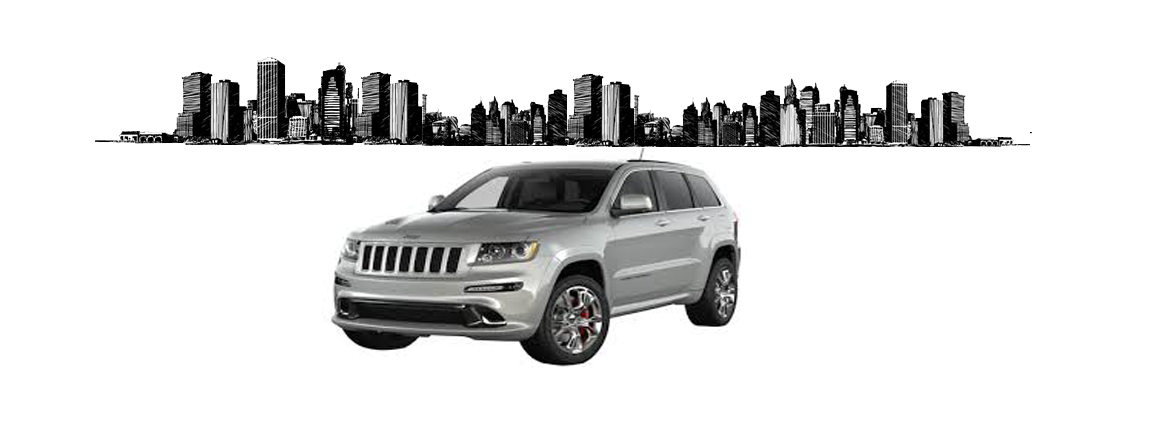
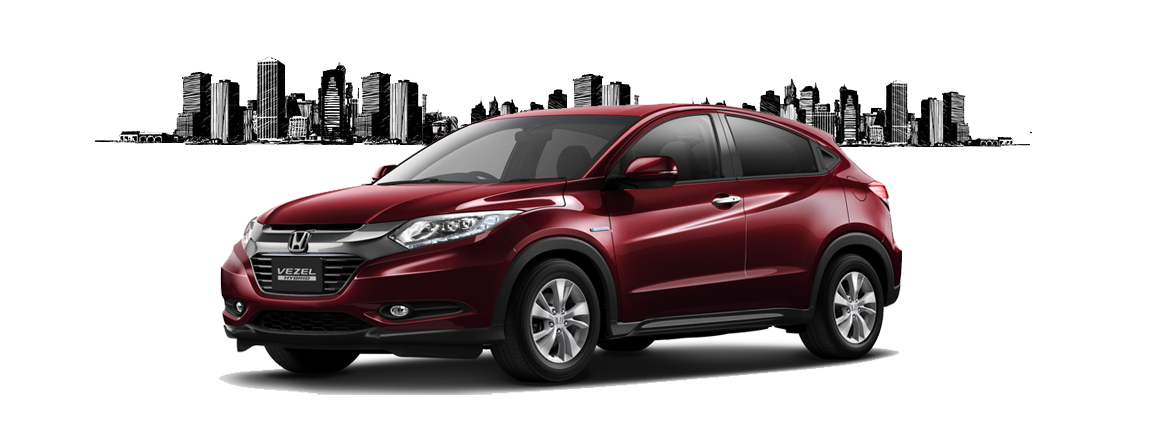
chang 11

Changed region(s): [[0.1846, 0.2419, 0.7692, 0.9372]]

diff --git a/index.html b/index.html
@@ -95,7 +95,7 @@
             <div class="col-md-12">
               <div id="owl-slider" class="carousel owl-carousel owl-theme">
                 <div class="item active">
-			      <img src="images/slide1.jpg" alt="order cab now">
+			      <img src="images/slide1.png">
 				  <div class="container-fluid">
                     <div class="carousel-caption">
                       <p class="lead uk-text-black">Your</p>
@@ -106,7 +106,7 @@
                   </div>
 		        </div>
                 <div class="item">
-			      <img src="images/slider2.jpg" alt="rush our city cab">
+			      <img src="images/slider2.png" alt="rush our city cab">
 				  <div class="container-fluid">
                     <div class="carousel-caption">
                       <p class="lead-large uk-text-white">Twenty Seats Van &</p>
@@ -173,7 +173,7 @@
 					  </div>
 					  <div class="uk-width-medium-1-3">
 					    <div class="uk-panel uk-panel-box uk-panel-box-primary">
-                          <a title="Binu Cab Vehicle" rel="bookmark" href="car-Piyasa.html">Piyasa</a><!-- <h3 class="uk-text-white">small/ town car</h3> -->
+                          <a title="Binu Cab Vehicle" rel="bookmark" href="car-Toyota_Prius.html">Toyota Prius</a><!-- <h3 class="uk-text-white">small/ town car</h3> -->
                         </div>
 					  </div>
 					  <div class="uk-width-medium-1-3">
@@ -209,7 +209,7 @@
                     </div>					
 				  </div>
                   <div id="limousine-taxi" class="tab-pane fade">
-	                <img alt="Jeeps" src="images/town3.png" title="Click Here">
+	                <a href="car-Honda_vezel.html"><img alt="Jeeps" src="images/town3.png" title="Click Here"></a>
 				    <!-- <div class="uk-grid uk-grid-divider uk-text-center">
                       <div class="uk-width-medium-1-3">
 					    <div class="uk-panel uk-panel-box uk-panel-box-primary">

diff --git a/car-Toyota_Prius.html b/car-Toyota_Prius.html
@@ -120,13 +120,13 @@
 			  <article>
 				<header>                  
 				   <ul class="entry-title">
-					<li id="vehicle"><a title="city cab fever" rel="bookmark" href="car-Honda_Shuttle.html">Honda Shuttle</a></li>
-					<li id="vehicle"><a title="city cab fever" rel="bookmark" href="car-Belta_Car.html">Belta Car</a></li>
-					<li id="vehicle"><a title="city cab fever" rel="bookmark" href="car-Honda_vezel.html">Honda vezel</a></li>
-					<li id="vehicle" class="active"><a title="city cab fever" rel="bookmark" href="car-Piyasa.html">Piyasa</a></li>
-					<li id="vehicle"><a title="city cab fever" rel="bookmark" href="car-Wagonr.html">Wagonr</a></li>
-					<li id="vehicle"><a title="city cab fever" rel="bookmark" href="car-Nissan_Wagon.html">Nissan Wagon</a></li>
-					<li id="vehicle"><a title="city cab fever" rel="bookmark" href="car-Other.html">Other</a></li>
+					<li id="vehicle"><a rel="bookmark" href="car-Honda_Shuttle.html">Honda Shuttle</a></li>
+					<li id="vehicle"><a rel="bookmark" href="car-Belta_Car.html">Belta Car</a></li>
+					<li id="vehicle"><a rel="bookmark" href="car-Honda_vezel.html">Honda vezel</a></li>
+					<li id="vehicle" class="active"><a rel="bookmark" href="car-Toyota_Prius.html">Toyota Prius</a></li>
+					<li id="vehicle"><a rel="bookmark" href="car-Wagonr.html">Wagonr</a></li>
+					<li id="vehicle"><a rel="bookmark" href="car-Nissan_Wagon.html">Nissan Wagon</a></li>
+					<li id="vehicle"><a rel="bookmark" href="car-Other.html">Other</a></li>
 				  </ul>
                 </header>  
                	<div class="moments">

diff --git a/car-Wagonr.html b/car-Wagonr.html
@@ -120,13 +120,12 @@
 			  <article>
 				<header>                  
 				   <ul class="entry-title">
-						<li id="vehicle"><a title="city cab fever" rel="bookmark" href="car-Honda_Shuttle.html">Honda Shuttle</a></li>
-						<li id="vehicle"><a title="city cab fever" rel="bookmark" href="car-Belta_Car.html">Belta Car</a></li>
-						<li id="vehicle"><a title="city cab fever" rel="bookmark" href="car-Honda_vezel.html">Honda vezel</a></li>
-						<li id="vehicle"><a title="city cab fever" rel="bookmark" href="car-Piyasa.html">Piyasa</a></li>
-						<li id="vehicle" class="active"><a title="city cab fever" rel="bookmark" href="car-Wagonr.html">Wagonr</a></li>
-						<li id="vehicle"><a title="city cab fever" rel="bookmark" href="car-Nissan_Wagon.html">Nissan Wagon</a></li>
-						<li id="vehicle"><a title="city cab fever" rel="bookmark" href="car-Other.html">Other</a></li>
+						<li id="vehicle"><a rel="bookmark" href="car-Honda_Shuttle.html">Honda Shuttle</a></li>
+						<li id="vehicle"><a rel="bookmark" href="car-Belta_Car.html">Belta Car</a></li>						
+						<li id="vehicle"><a rel="bookmark" href="car-Toyota_Prius.html">Toyota Prius</a></li>
+						<li id="vehicle" class="active"><a rel="bookmark" href="car-Wagonr.html">Wagonr</a></li>
+						<li id="vehicle"><a rel="bookmark" href="car-Nissan_Wagon.html">Nissan Wagon</a></li>
+						<li id="vehicle"><a rel="bookmark" href="car-Other.html">Other</a></li>
 				  </ul>
                 </header>  
                	<div class="moments">

diff --git a/car-Belta_Car.html b/car-Belta_Car.html
@@ -120,13 +120,12 @@
 			  <article>
 			  <header>                  
 				   <ul class="entry-title">
-					<li id="vehicle"><a title="city cab fever" rel="bookmark" href="car-Honda_Shuttle.html">Honda Shuttle</a></li>
-					<li id="vehicle" class="active"><a title="city cab fever" rel="bookmark" href="car-Belta_Car.html">Belta Car</a></li>
-					<li id="vehicle"><a title="city cab fever" rel="bookmark" href="car-Honda_vezel.html">Honda vezel</a></li>
-					<li id="vehicle"><a title="city cab fever" rel="bookmark" href="car-Piyasa.html">Piyasa</a></li>
-					<li id="vehicle"><a title="city cab fever" rel="bookmark" href="car-Wagonr.html">Wagonr</a></li>
-					<li id="vehicle"><a title="city cab fever" rel="bookmark" href="car-Nissan_Wagon.html">Nissan Wagon</a></li>
-					<li id="vehicle"><a title="city cab fever" rel="bookmark" href="car-Other.html">Other</a></li>
+					<li id="vehicle"><a rel="bookmark" href="car-Honda_Shuttle.html">Honda Shuttle</a></li>
+					<li id="vehicle" class="active"><a  rel="bookmark" href="car-Belta_Car.html">Belta Car</a></li>					
+					<li id="vehicle"><a rel="bookmark" href="car-Toyota_Prius.html">Toyota Prius</a></li>
+					<li id="vehicle"><a rel="bookmark" href="car-Wagonr.html">Wagonr</a></li>
+					<li id="vehicle"><a rel="bookmark" href="car-Nissan_Wagon.html">Nissan Wagon</a></li>
+					<li id="vehicle"><a rel="bookmark" href="car-Other.html">Other</a></li>
 				  </ul>
                 </header>
                	<div class="moments">

diff --git a/car-Nissan_Wagon.html b/car-Nissan_Wagon.html
@@ -120,13 +120,12 @@
 			  <article>
 				<header>                  
 				   <ul class="entry-title">
-					<li id="vehicle"><a title="city cab fever" rel="bookmark" href="car-Honda_Shuttle.html">Honda Shuttle</a></li>
-					<li id="vehicle"><a title="city cab fever" rel="bookmark" href="car-Belta_Car.html">Belta Car</a></li>
-					<li id="vehicle"><a title="city cab fever" rel="bookmark" href="car-Honda_vezel.html">Honda vezel</a></li>
-					<li id="vehicle"><a title="city cab fever" rel="bookmark" href="car-Piyasa.html">Piyasa</a></li>
-					<li id="vehicle"><a title="city cab fever" rel="bookmark" href="car-Wagonr.html">Wagonr</a></li>
-					<li id="vehicle" class="active"><a title="city cab fever" rel="bookmark" href="car-Nissan_Wagon.html">Nissan Wagon</a></li>
-					<li id="vehicle"><a title="city cab fever" rel="bookmark" href="car-Other.html">Other</a></li>
+					<li id="vehicle"><a rel="bookmark" href="car-Honda_Shuttle.html">Honda Shuttle</a></li>
+					<li id="vehicle"><a rel="bookmark" href="car-Belta_Car.html">Belta Car</a></li>					
+					<li id="vehicle"><a rel="bookmark" href="car-Toyota_Prius.html">Toyota Prius</a></li>
+					<li id="vehicle"><a rel="bookmark" href="car-Wagonr.html">Wagonr</a></li>
+					<li id="vehicle" class="active"><a rel="bookmark" href="car-Nissan_Wagon.html">Nissan Wagon</a></li>
+					<li id="vehicle"><a rel="bookmark" href="car-Other.html">Other</a></li>
 				  </ul>
                 </header>  
                	<div class="moments">

diff --git a/car-Other.html b/car-Other.html
@@ -120,13 +120,12 @@
 			  <article>
 				<header>                  
 				   <ul class="entry-title">
-					<li id="vehicle"><a title="city cab fever" rel="bookmark" href="car-Honda_Shuttle.html">Honda Shuttle</a></li>
-					<li id="vehicle"><a title="city cab fever" rel="bookmark" href="car-Belta_Car.html">Belta Car</a></li>
-					<li id="vehicle"><a title="city cab fever" rel="bookmark" href="car-Honda_vezel.html">Honda vezel</a></li>
-					<li id="vehicle"><a title="city cab fever" rel="bookmark" href="car-Piyasa.html">Piyasa</a></li>
-					<li id="vehicle"><a title="city cab fever" rel="bookmark" href="car-Wagonr.html">Wagonr</a></li>
-					<li id="vehicle"><a title="city cab fever" rel="bookmark" href="car-Nissan_Wagon.html">Nissan Wagon</a></li>
-					<li id="vehicle" class="active"><a title="city cab fever" rel="bookmark" href="car-Other.html">Other</a></li>
+					<li id="vehicle"><a rel="bookmark" href="car-Honda_Shuttle.html">Honda Shuttle</a></li>
+					<li id="vehicle"><a rel="bookmark" href="car-Belta_Car.html">Belta Car</a></li>					
+					<li id="vehicle"><a rel="bookmark" href="car-Toyota_Prius.html">Toyota Prius</a></li>
+					<li id="vehicle"><a rel="bookmark" href="car-Wagonr.html">Wagonr</a></li>
+					<li id="vehicle"><a rel="bookmark" href="car-Nissan_Wagon.html">Nissan Wagon</a></li>
+					<li id="vehicle" class="active"><a rel="bookmark" href="car-Other.html">Other</a></li>
 				  </ul>
                 </header>  
                	<div class="moments">

diff --git a/car-Honda_vezel.html b/car-Honda_vezel.html
@@ -120,13 +120,7 @@
 			  <article>
 			  <header>                  
 				   <ul class="entry-title">
-					<li id="vehicle"><a title="city cab fever" rel="bookmark" href="car-Honda_Shuttle.html">Honda Shuttle</a></li>
-					<li id="vehicle"><a title="city cab fever" rel="bookmark" href="car-Belta_Car.html">Belta Car</a></li>
-					<li id="vehicle" class="active"><a title="city cab fever" rel="bookmark" href="car-Honda_vezel.html">Honda vezel</a></li>
-					<li id="vehicle"><a title="city cab fever" rel="bookmark" href="car-Piyasa.html">Piyasa</a></li>
-					<li id="vehicle"><a title="city cab fever" rel="bookmark" href="car-Wagonr.html">Wagonr</a></li>
-					<li id="vehicle"><a title="city cab fever" rel="bookmark" href="car-Nissan_Wagon.html">Nissan Wagon</a></li>
-					<li id="vehicle"><a title="city cab fever" rel="bookmark" href="car-Other.html">Other</a></li>
+					<li id="vehicle" class="active"><a rel="bookmark" href="car-Honda_vezel.html">Honda vezel</a></li>					
 				  </ul>
                 </header>  
                	<div class="moments">

diff --git a/car-Honda_Shuttle.html b/car-Honda_Shuttle.html
@@ -121,9 +121,8 @@
 			  <header>                  
 				  <ul class="entry-title">
 					<li id="vehicle"  class="active"><a rel="bookmark" href="car-Honda_Shuttle.html">Honda Shuttle</a></li>
-					<li id="vehicle"><a rel="bookmark" href="car-Belta_Car.html">Belta Car</a></li>
-					<li id="vehicle"><a rel="bookmark" href="car-Honda_vezel.html">Honda vezel</a></li>
-					<li id="vehicle"><a rel="bookmark" href="car-Piyasa.html">Piyasa</a></li>
+					<li id="vehicle"><a rel="bookmark" href="car-Belta_Car.html">Belta Car</a></li>					
+					<li id="vehicle"><a rel="bookmark" href="car-Toyota_Prius.html">Toyota Prius</a></li>
 					<li id="vehicle"><a rel="bookmark" href="car-Wagonr.html">Wagonr</a></li>
 					<li id="vehicle"><a rel="bookmark" href="car-Nissan_Wagon.html">Nissan Wagon</a></li>
 					<li id="vehicle"><a rel="bookmark" href="car-Other.html">Other</a></li>
